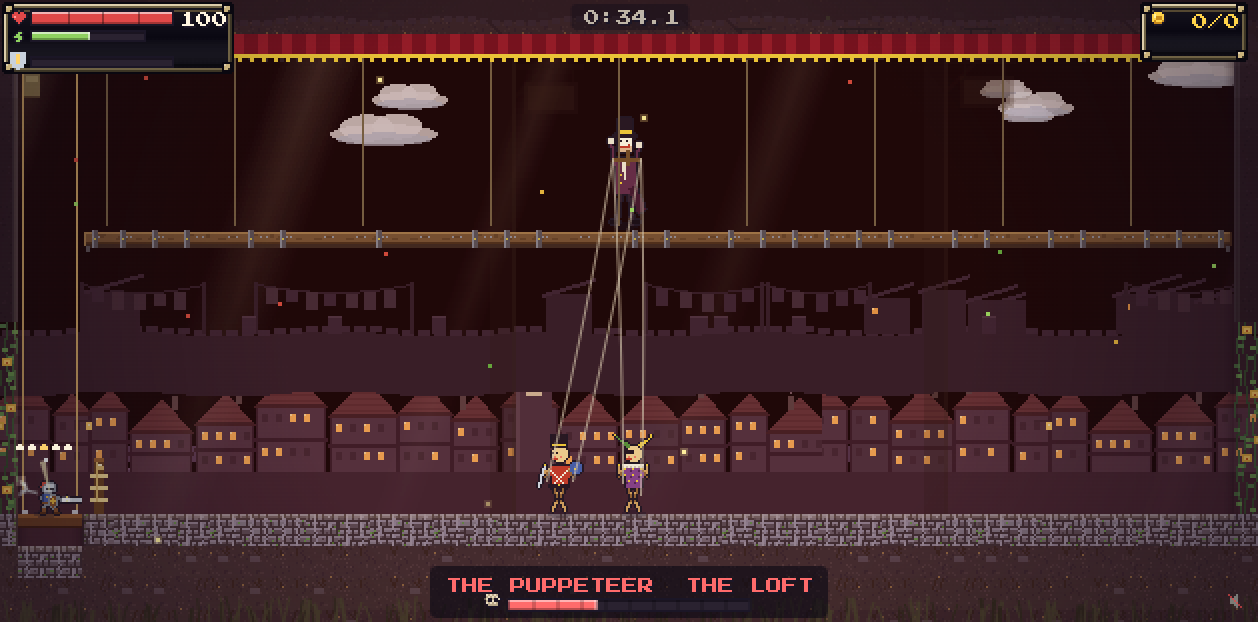
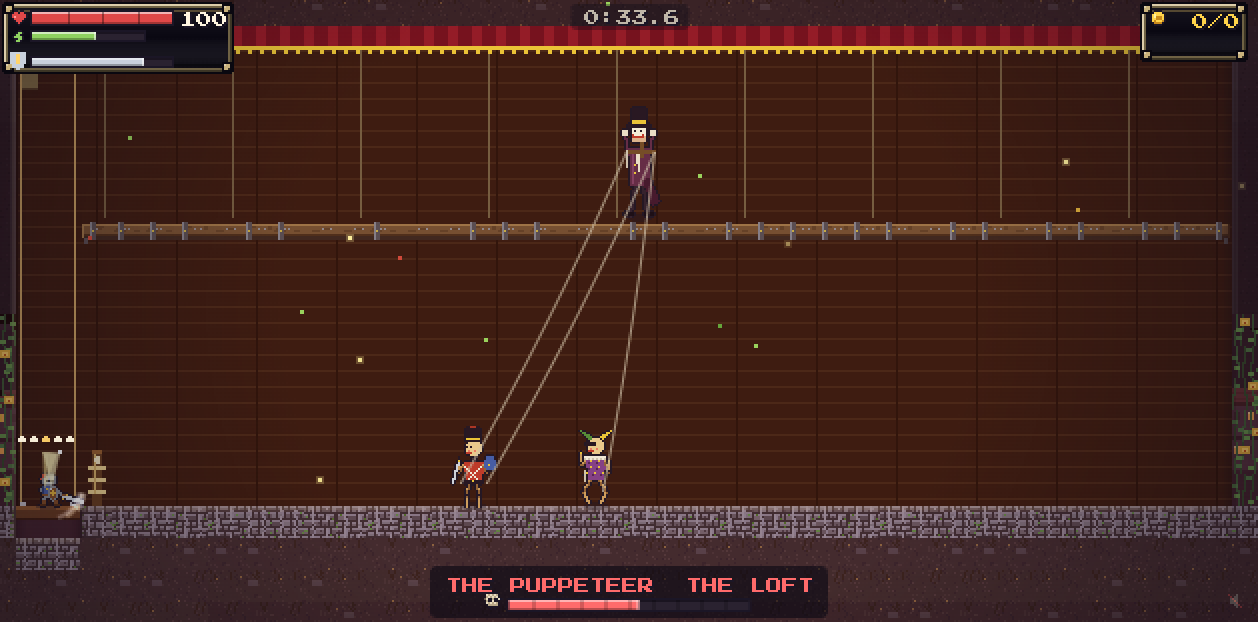
puppeteer: the lane report, the final capture set, the comment no longer cites the theatre's file

diff --git a/src/puppeteer.js b/src/puppeteer.js
@@ -390,7 +390,7 @@ export function stagePuppeteer(W, T, TS, sx, R) {
   return { arena, movers: [batten] };
 }
 /* THE STANDALONE ARENA (level 'puppetstage', hidden): a short wing corridor with a checkpoint, the stage, and the way on past it. Only for testing him
-   until THE MASKWRIGHT'S THEATRE (src/maskwright-theatre.js, claude/theatre) lands with the main stage at its end - then this level goes */
+   until THE MASKWRIGHT'S THEATRE (the claude/theatre lane's level) lands with the main stage at its end - then this level goes */
 export function buildPuppetStage({ painter, T, TS }) {
   const W = 64, H = 24, R = 20, S = R - 1, L = painter(W, H), { set, block, plat, ent } = L;
   L.floor(0, W - 1, R); block(0, 0, 0, R - 1); block(W - 1, W - 1, 0, R - 1);

diff --git a/work/claude/lane-done/claude-puppeteer.md b/work/claude/lane-done/claude-puppeteer.md
@@ -1,0 +1,209 @@
+# claude/puppeteer - THE PUPPETEER, the boss of THE MASKWRIGHT'S THEATRE (new boss lane, 2026-09-30)
+
+Branch `claude/puppeteer`, based on `claude/housekeep` a6d58b4 (master 5d25df0 + the Maypole Ribbon). origin/master was fetched before this
+report: nothing new, it is already in. I didn't touch master, deploy, or run the full suite.
+
+## What he is
+
+He works marionettes from the fly gallery over the stage. The fight has one rule: **CUT THE STRINGS.** The design record is the header of
+`src/puppeteer.js`.
+
+- **The rule.** His puppets are wood: a blow on a body clacks and does nothing ("WOOD: CUT THE STRINGS" in the hint box). Each puppet hangs on
+  strings that run up to the bar in his hands. A string can be cut only while it is **taut**, which is exactly when the puppet is doing something:
+  through every windup and every blow, and while it is being flown up or let down. A taut string is drawn straight, glowing gold and pulsing;
+  a slack one hangs grey with a sag. Cutting a string during a windup **cancels that blow** and staggers the puppet. **One string per puppet per
+  swing**: a small puppet has two strings, so it takes two blows, and the second drops it in a heap.
+- **Phase 1, THE PLAY.**
+  - Two marionettes on the stage floor:
+    - THE SOLDIER: a chop, `!` (block it).
+    - THE HARLEQUIN: a spinning kick along the boards, `!!` (jump it).
+  - THE DROP, `!!`: every third blow, he hoists a puppet over you and lets it fall. Its shadow grows red on the boards under you first.
+  - With both cut down, he rides his fly line to the stage and kneels to re-string them. That is the opening: **OPEN** for 2.8 s at x1.25.
+    You see a gold ring round him, OPEN over him with a bar running down, the boss bar reading "THE PUPPETEER  OPEN", and the hint box saying
+    "HE IS RE-STRINGING THEM: CUT HIM".
+  - If one puppet is down and the other still dancing, after 6.5 s he lowers a new string to the heap. It glows and can be cut on the way down.
+- **Phase 2, THE LOFT (2/3).**
+  - He cuts his own fly line and won't come down again.
+  - THE COUNTERWEIGHT comes free. The pin rail at the stage door was locked with an iron band (a strike says "THE PIN RAIL IS LOCKED"); now it
+    glows. Stand on the batten, strike the rail, and the sandbag drops while the batten flies you up to the gallery. It holds there 4.5 s, then
+    comes down.
+  - In the loft, his puppets are flown up to your floor.
+  - He fights with the strings:
+    - THE WHIP, `!!`: low (jump it) or high (duck it), told as a red band along the catwalk with an arrow at your hero.
+    - THE SNARE, `!!`: a glowing loop drawn tight at your feet. Step out, or be caught (it uses the game's existing breakable `P.snare`).
+  - Cut both puppets down up there and he re-strings them where he stands: open. If he re-strings while you are still on the stage, the hint
+    says "HE RE-STRINGS THEM IN THE LOFT: CLIMB".
+- **Phase 3, THE MASTERPIECE (1/3).**
+  - He packs the two puppets away and lowers a carved wooden king twice a man's height on four strings from a great crossbar. Its moves:
+    - THE SWAT, `!` (block it).
+    - THE STOMP, `!!`: a red mark on the boards where its foot will land.
+    - THE REACH, `!!`: only while you are in the loft. Its arm sweeps the catwalk at head height (duck it).
+  - Its hand strings can be cut from the stage with a jump. Its head and back strings can only be cut from the gallery, where they pass the
+    catwalk.
+  - Cut all four and it falls, and the crossbar drags him off the gallery. He lands on the stage, **OPEN** for 4 s at x1.4, then climbs back and
+    rigs it again.
+- **The rest of the time** his hands on the bars guard him: a blow that reaches him does x0.2, and the hint box says once "THE BARS TAKE IT: CUT
+  HIS STRINGS FIRST". So he is never untouchable (rule A5), and every window is caused (rule A11).
+- **Health is not the lever.** 720 base (648 at normal). The levers are the window lengths in `PUP`.
+- **His death:** every puppet drops where it hangs and a red curtain comes down over the stage ("THE CURTAIN FALLS").
+
+## Phase 3: why the giant marionette, not stringing the hero
+
+I built the masterpiece. Stringing the hero (the controls tugged, told and short) is Question 1.
+
+- **It keeps the fight's one rule and raises it.** It is still "cut the glowing strings", now on two floors: the hand strings from the boards,
+  the head and back only from the loft.
+- **Your controls stay yours.** A tug on your controls reads as a bug in a platformer, it is hard to tell fairly, and a bot pilot can't measure
+  whether it is fair.
+- **It gives the fight a physical climax:** his own crossbar pulls him down to you.
+
+## Files
+
+- **New:**
+  - `src/puppeteer.js`: the fight. It is pure (no DOM). It also holds the stage builder `stagePuppeteer`, the standalone `buildPuppetStage`,
+    and the bot's `puppetPlan`.
+  - `src/puppeteer-hands.js`: binds the fight to the world, and draws the rig, the strings, the tells, the batten, OPEN and the curtain.
+  - `src/redraw/puppeteer_art.js`: all four sprites, px.js only. The Puppeteer has 13 frames, the Soldier and the Harlequin 9 each, the
+    Masterpiece 11.
+  - `tools/puppeteer.mjs`: the check.
+  - `tools/puppeteer-pilot.mjs` and `tools/puppeteer-shots.mjs`: not in the suite.
+- **`src/main.js`: 28 small, local edits** on the A8 wiring points:
+  - the import, EHP and COLS, the spawn cases, and the update dispatch (placed before the 420 px freeze and the attack tokens);
+  - the frame, the sprites, bossEnd, the corpse frame, the bestiary rows (him and his three), BOSS_T and BEAST_SHORT;
+  - POISE_SKIP and KNOCK_SKIP (added after the existing first names, never at the front), windingUp, BOSS_FELL, the boss-bar name, bossOpen and
+    wardedDamage;
+  - a blow on a puppet body goes to `hurtEnemy0` (wood); a swing goes to `updateProps` (strings and pin rail);
+  - the batten goes into `updateMovers` and the mover draw;
+  - two draw hooks, the camera (the whole stage floor to grid when the view is tall enough), the wake sound, `BK.puppeteer()` and
+    `BK.puppeteerHands()`, and the hands' construction;
+  - the show is cleared in `spawnEntities`.
+- **Also changed:**
+  - `src/lab.js`: the bot block, which calls `puppetPlan`.
+  - `src/marks.js`: BY_HAND, ANSWER and HEIGHT rows, then `tells.mjs --write`.
+  - `src/hint-lines.js`: 10 teaching lines, appended at the end.
+  - `src/audio.js`: 9 `pup*` sounds, his hurt and death voices, and his music.
+  - `src/threat.js`: puppeteer 6, puppets 0.
+  - `src/level.js`: the hidden standalone level.
+  - `tools/check.mjs`: `puppeteer` added to the list.
+  - `tools/boss-openings.mjs`: his probe.
+  - `tools/boss-navigation.mjs`: a `puppetstage` row that asserts the pilot rode the batten up and stood on the gallery.
+- **Music:** his own synth track, `puppeteer`. No file and nothing downloaded: a D-minor march for a toy theatre (a music box over an organ
+  bass, timpani on the bar, 132 bpm). `arena.music` is `'puppeteer'`.
+
+## For the theatre lane (claude/theatre) and the merge
+
+- In the theatre's builder, lay the main stage with `const { arena, movers } = stagePuppeteer({ set, block, plat, ent }, T, TS, sx, R)`:
+  - `sx` is the stage's west wall column, and the stage is 40 columns wall to wall;
+  - `R` is its floor row, and rows `R-16` to `R+1` must be free;
+  - put `arena` in the level's return and add `movers` (the batten) to its `moversExtra`;
+  - a checkpoint should stand outside the west door.
+
+  The theatre may override `arena.music` (default `'puppeteer'`) and the tint.
+- **When the theatre lands, delete the hidden `puppetstage` row** at the end of LEVELS in `src/level.js`, and pass the theatre's id to
+  `tools/puppeteer-pilot.mjs`. Two lines also need re-pointing: the boss-openings probe (`boot('puppetstage')`) and the boss-navigation row.
+  `tools/puppeteer.mjs`'s STAGE block reads `puppetstage` too.
+  - If the theatre merges first, `puppetstage` lands after it. Taking it out then moves no index as long as it is the last row.
+- `?boss=puppeteer` works now: the boss table reads the levels, and the hidden stage is one of them. It is not in Boss Rush or the Level
+  Editor (both parked).
+
+## Checks (each run by name)
+
+**Green:**
+- puppeteer (new);
+- boss-fight-end (47 fights, his included);
+- boss-openings (his probe: left alone for a minute 0 open; cut down he comes down open 2.8);
+- boss-navigation (4 rows; the puppeteer knight wins and stands on the gallery);
+- tells;
+- architecture;
+- skins;
+- dangling-paths;
+- hint-shown (130 routed, none new silent);
+- audio-assets;
+- attack-tokens;
+- npc-removal;
+- also checkpoints, checkpoint-rule, checkpoint-gaps and comments.
+
+**Re-run alone after a failure under load:**
+- **boss-navigation** failed once with "Runtime.enable did not answer" while other Chrome runs were going. It passed alone.
+- **attack-tokens** failed once with "only 3 red !! blows". The threshold is fewer than 4, and the base a6d58b4 gets exactly 4 on both runs,
+  so the check sits on its edge. It passed alone with 4.
+- **dangling-paths** failed on my own comment, which cited the theatre's file (not on this branch). I reworded the comment and it is green.
+
+**slopes-trace** wasn't run: it traces four fixed shipped levels and I changed none of them. The hidden stage isn't in it.
+
+**The new check goes red:**
+- On a6d58b4 (`ERR_MODULE_NOT_FOUND`: there is no fight module).
+- On all six mutations of `src/puppeteer.js`, each caught by its own assertion:
+  - strings always taut;
+  - open while working;
+  - a cut doesn't cancel the blow;
+  - phase 2 frees nothing;
+  - no descent;
+  - no yank.
+
+## Pilots (AFTER only: he is new)
+
+`node tools/puppeteer-pilot.mjs 1 knight,warden,pyro`: normal health, one life, the standalone stage, seed salt 1.
+
+| hero | outcome | seconds | damage taken | strings cut | comes down / re-strung in loft / fell with the masterpiece |
+|---|---|---|---|---|---|
+| knight | win | 83.8 | 0 | 24 | 2 / 2 / 2 |
+| warden | win | 113.0 | 0 | 36 | 4 / 3 / 2 |
+| pyro | win | 97.5 | 14 | 28 | 3 / 2 / 2 |
+
+- **3 of 3 wins, median win 97.5 s.** That is inside the house band for time (90-150 s), and it sits past the Wicker Queen's pilot (61 s).
+- **The bot reads perfectly.** It knows every string's crossing point to the pixel and cuts every windup at once, so almost no blow lands
+  (chop 0, spin 0-1). For a player the tell is 0.7-0.85 s.
+- **Tuning so far:** the first version gave 5 s windows at x1.35, and the knight won in 43-54 s. It is now 2.8 s at x1.25 on the stage and in
+  the loft, and 4 s at x1.4 for the fall.
+- **A bug the first pilot found:** `bossLab` (and boss-fight-end) kill every non-boss foe without `maxHp`, and that killed his puppets. The
+  puppets now carry `maxHp`, and anything that puts a puppet away some other way only makes a heap he re-strings.
+- **Another the pilots found:** the soldier's strings attached at 17 px, above the warden's point and the pyromancer's staff (15-16 px). Both
+  lost in phase 1. The hands now sit at 8-12 px.
+
+## Captures
+
+`node tools/puppeteer-shots.mjs` played one bot fight and saved stills to `work/claude/puppeteer/`, one per beat:
+- 2: the drop's shadow;
+- 3: he kneels re-stringing, OPEN;
+- 4: the batten flying the hero up;
+- 5: the flown puppets in the loft;
+- 6: the whip told along the catwalk;
+- 7: the snare;
+- 8: the masterpiece's reach, told;
+- 9: he fell with it, OPEN;
+- 10: the curtain.
+
+There is no still of a soldier's chop windup, because the bot cuts it before the frame is taken. Stills 2-7 were taken before I added the
+stage's indoor backdrop, so the town and its clouds show through them. Stills 8-10 have the backdrop.
+
+## UNVERIFIED
+
+- **Nobody has played him with hands.** Untested: whether the glowing string reads as the thing to hit in a 0.7 s windup, whether the pin rail
+  and batten are found without being told twice, the snare's mash-out, and the masterpiece's head and back strings seen from the loft.
+- **The audio has not been heard.** The sounds and the overture were written by numbers.
+- **Only the knight, the warden and the pyromancer were piloted.** Paladin, pirate, reaper and geomancer have not fought him.
+- **Co-op was not tested.** The hands loop over every player, and the nearest hero is the one targeted.
+- **The standalone stage is not the theatre.** Its backdrop is a plain interior on the village palette, and the look is the theatre lane's.
+- **The stage and gallery only fit on screen in the zoomed boss view.** In the plain 320x180 view the camera follows you and leans toward him.
+- **Only melee cuts strings.** A thrown javelin, an ember or a pistol ball does not.
+
+## QUESTIONS FOR DANIEL (recommendation first; the recommended option is built)
+
+1. **Phase 3.** Built: the giant marionette (reasons above). The alternative is stringing the hero for a moment. Recommend keeping the
+   masterpiece.
+2. **The facing rule.** Not tied in. The theatre comes before the Harvest Fair, so a puppet that moves only when unwatched would teach the
+   fair's rule before its level does. Recommend leaving it out. A late option is a harlequin that turns its head to watch you, as foreshadowing
+   only.
+3. **Music.** Built: his own synth overture, `puppeteer`. It is not in the Sound Test (that would need a credit line and textfit), and
+   `tools/audio-assets.mjs` doesn't read the hidden stage's music. The alternative is to let the theatre's own track carry into the fight
+   (set `arena.music`). Recommend keeping the overture, and a CC0 file later if you want one (a download needs your yes).
+4. **One string per swing.** Built: a small puppet takes two blows, in two windups. The alternative is a swing through both hands cutting both,
+   which drops a puppet in one blow and halves phase 1. Recommend one per swing.
+5. **Should shots and throws cut strings too** (the javelin, embers, the pistol)? Recommend yes, as a small follow-up, if playtests find the
+   ranged heroes struggle. Right now it is melee only, and all three piloted heroes win.
+6. **TIER.** The standalone stage has no TIER. The theatre level's TIER is the theatre lane's call, the same as the fair's question 4.
+   Recommend no TIER, and tune by the windows.
+7. **His reward.** None built. A relic slot is the level's to decide. Recommend that the theatre lane decide it.
+8. **Difficulty.** The bot won 3/3 with a median of 97.5 s. Recommend playing him first. If he is too easy, shorten the re-string window
+   (2.8 s) or lengthen the gap before the next string comes down (6.5 s); never raise his health.
